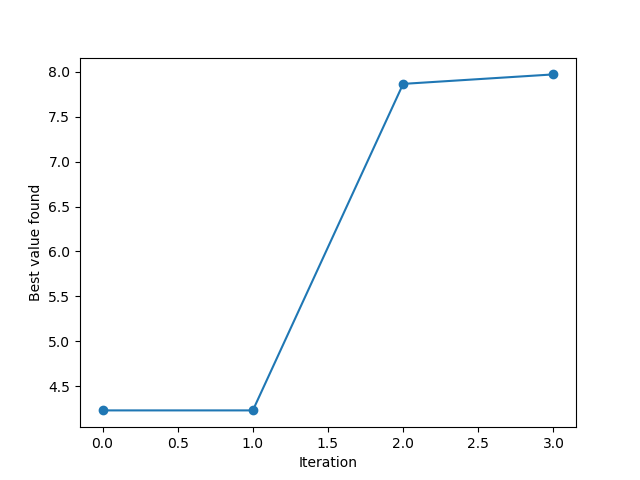
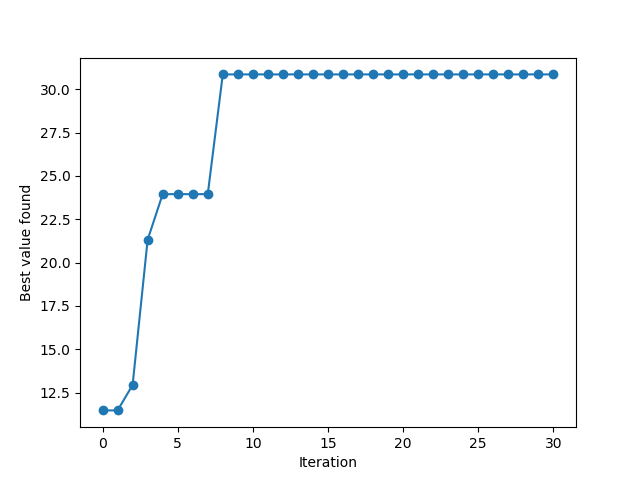
Update

diff --git a/main_EI.py b/main_EI.py
@@ -20,7 +20,7 @@ if __name__ == '__main__':
     contrast = 'T1'
     sampling_ratio = 0.1
     n_pre_samples = 3
-    n_iters = 3
+    n_iters = 30
     os.environ['CUDA_VISIBLE_DEVICES'] = '0'
 
     print('Contrast is {0}, Sampling ratio is {1}'.format(contrast, sampling_ratio))
@@ -35,8 +35,8 @@ if __name__ == '__main__':
         )
     data_loader = data.DataLoader(data_loader, batch_size=4, shuffle=False)
 
-    bounds = np.array([[-1., -1.], [1., 1.]])  # for log uniform space
-    # bounds = np.array([[0., 0.], [10., 10.]])  # for uniform space
+    # bounds = np.array([[-1., -1.], [1., 1.]])  # for log uniform space
+    bounds = np.array([[0., 0.], [10., 10.]])  # for uniform space
 
     objective = lambda z: recon_loss(z, data_loader, device, sampling_ratio)
 
@@ -93,7 +93,8 @@ if __name__ == '__main__':
     plt.savefig('EI.png')
     plt.close()
 
-    p_pattern = gen_pattern(10**a_best, 10**b_best, r_spacing=3)
+    # p_pattern = gen_pattern(10**a_best, 10**b_best, r_spacing=3)
+    p_pattern = gen_pattern(a_best, b_best, r_spacing=3)
     u = np.random.uniform(0, np.mean(p_pattern)/sampling_ratio, size=(256, 192))
     masks = p_pattern > u
     masks[128-13:128+12, 96-13:96+12] = 1

diff --git a/bayesOpt/sample_loss.py b/bayesOpt/sample_loss.py
@@ -31,8 +31,8 @@ def gen_pattern(a, b, r_spacing=3):
 
 def recon_loss(params, data_loader, device, sampling_ratio=0.1):
     print('a = {0}, b = {1}'.format(params[0], params[1]))
-    p_pattern = gen_pattern(a=10**params[0], b=10**params[1], r_spacing=3)
-    # p_pattern = gen_pattern(a=params[0], b=params[1], r_spacing=3)
+    # p_pattern = gen_pattern(a=10**params[0], b=10**params[1], r_spacing=3)
+    p_pattern = gen_pattern(a=params[0], b=params[1], r_spacing=3)
     model = DC_ST_Pmask(input_channels=2, filter_channels=32, lambda_dll2=1e-4, 
                         lambda_tv=1e-4, rho_penalty=1e-2, flag_ND=3, flag_solver=-3, 
                         flag_TV=1, K=20, rescale=True, samplingRatio=sampling_ratio, flag_fix=1, pmask_BO=p_pattern)
